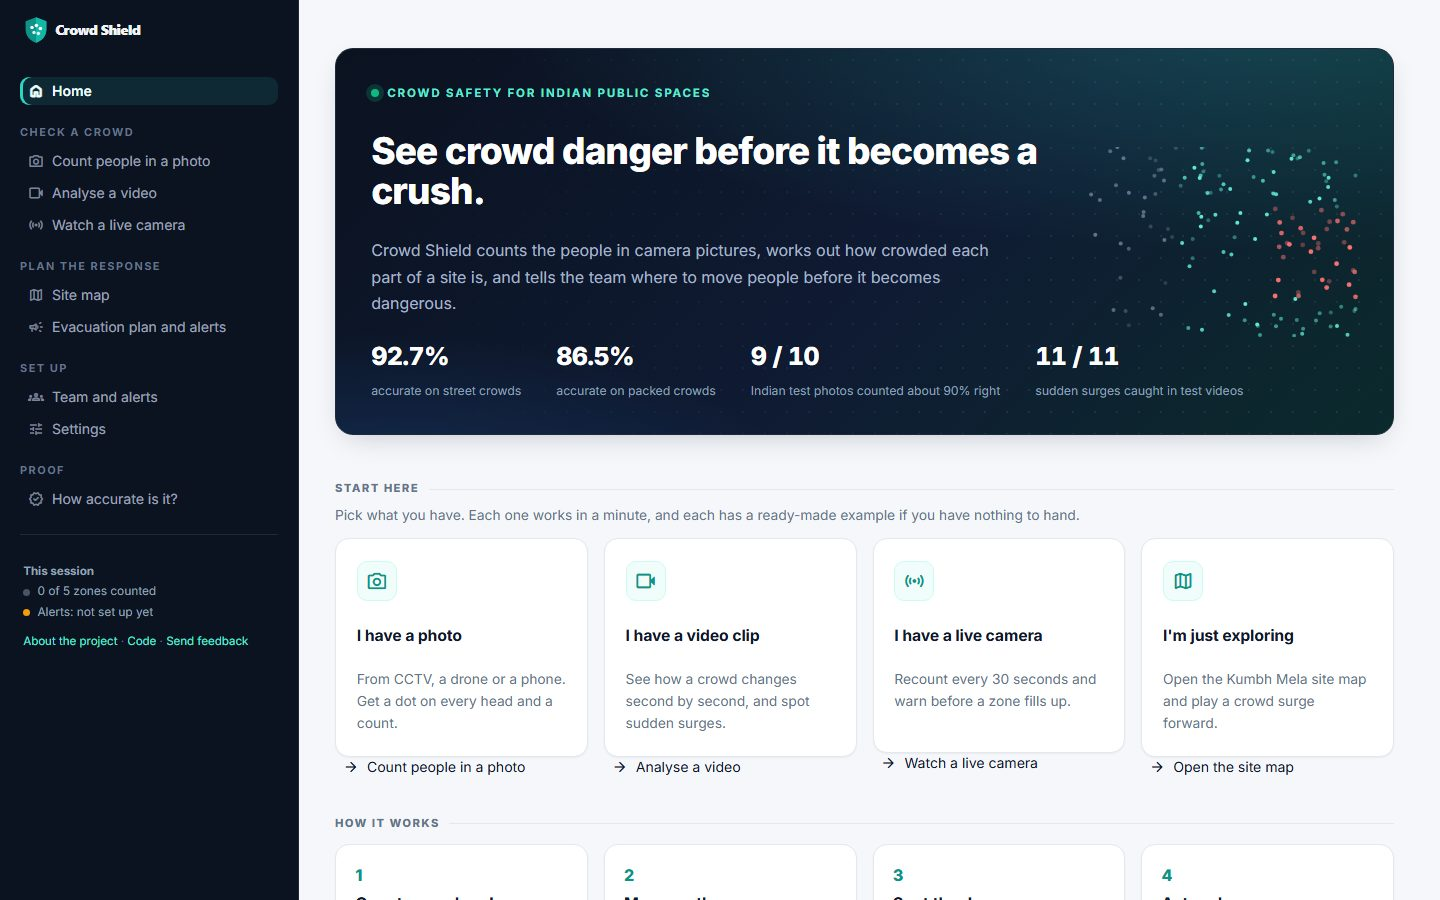
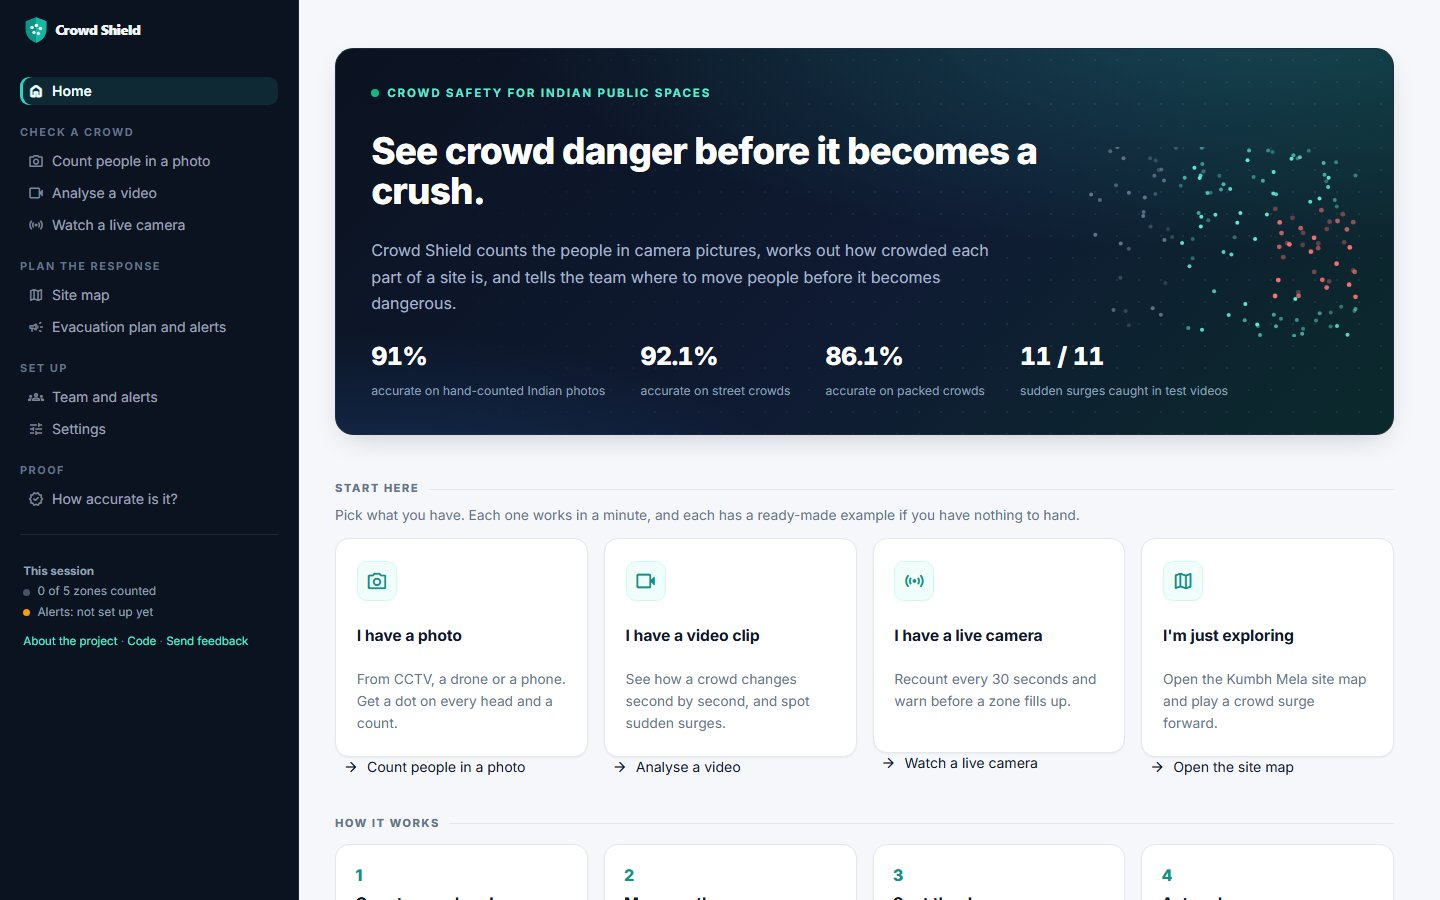
Accuracy page: the scene table fits beside the chart; new home screenshot

diff --git a/pages/7_Benchmark.py b/pages/7_Benchmark.py
@@ -49,15 +49,19 @@ st.markdown(
     unsafe_allow_html=True)
 
 # ── By scene ───────────────────────────────────────────────────────────────
-left, right = st.columns([5, 6], gap="large")
+left, right = st.columns([6, 5], gap="large")
 with left:
     section("By scene")
     scenes = pd.DataFrame(by_scene(rows))
-    scenes["accuracy"] = scenes["accuracy"].clip(lower=0)
+    scenes["accuracy"] = scenes["accuracy"].clip(lower=0) * 100
     st.dataframe(scenes, hide_index=True, width="stretch", column_config={
-        "scene": "Scene", "photos": "Photos", "people": st.column_config.NumberColumn("People", format="%d"),
-        "accuracy": st.column_config.ProgressColumn("Accuracy", min_value=0.0, max_value=1.0, format="percent"),
-        "mae": st.column_config.NumberColumn("Off by", help="Average people off, per photo", format="%.0f"),
+        "scene": st.column_config.TextColumn("Scene", width=170),
+        "photos": st.column_config.NumberColumn("Photos", width=60),
+        "people": st.column_config.NumberColumn("People", format="%d", width=64),
+        "accuracy": st.column_config.ProgressColumn("Accuracy", min_value=0.0, max_value=100.0, format="%.0f%%",
+                                                    width=100),
+        "mae": st.column_config.NumberColumn("Off by", help="Average people off, per photo", format="%.0f",
+                                             width=60),
     })
     st.caption("Accuracy below zero (more error than people) is shown as 0. Scenes with one or two "
                "photos are a hint, not a result, until more photos are labelled.")
